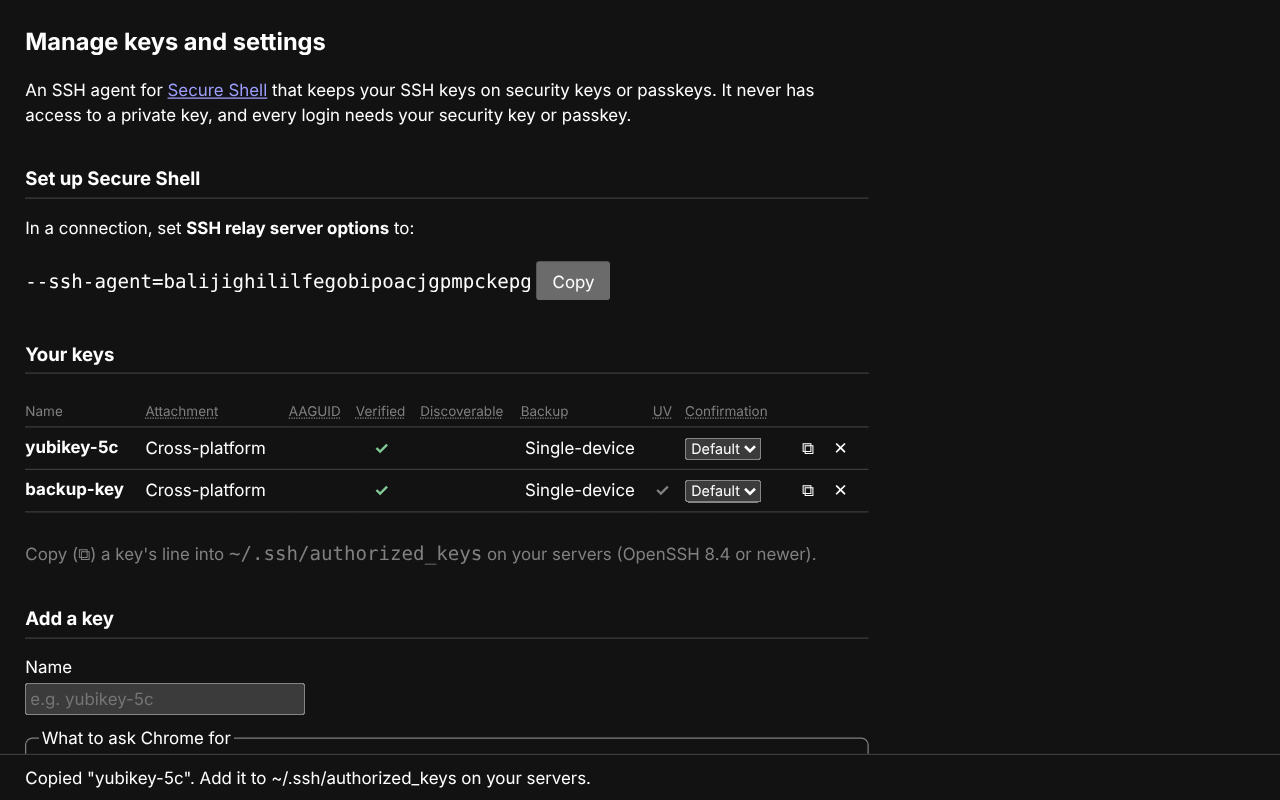
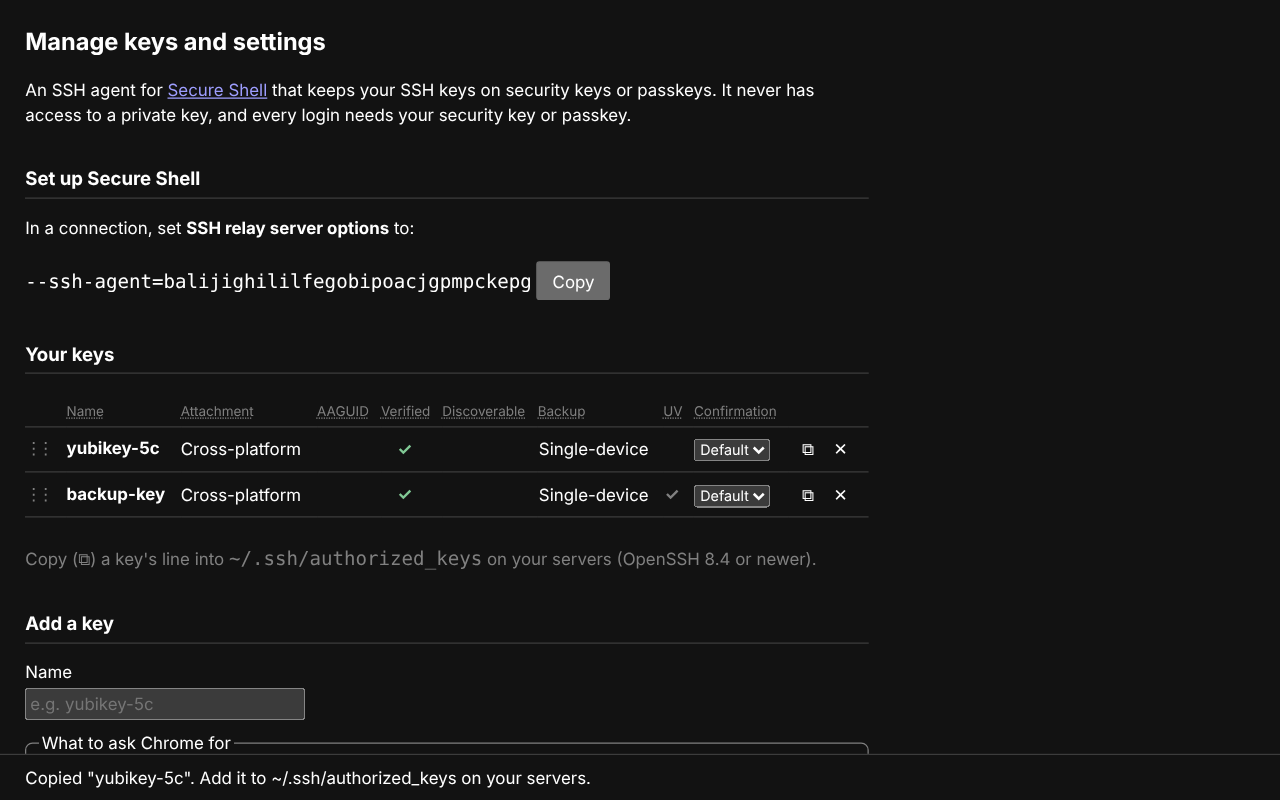
Let keys be reordered
Keys are offered to servers in the list's order, so which one ssh asks
for first can now be chosen: drag a row by its handle, or use Alt+↑/↓
on it.  Each key keeps its place in its own synced record; reordering
renumbers them all, and keys without one (new or older ones) or with
clashing ones (from two computers at once) go by age.

diff --git a/src/manage.js b/src/manage.js
@@ -6,8 +6,8 @@
 
 import {
   Attachment, Kind, createKey, deleteKey, importKey, isMismatched, isVerified,
-  keyAuthorizedKeysLine, keyBlob, loadKeys, renameKey, setKeyConfirmation,
-  verifyKey,
+  keyAuthorizedKeysLine, keyBlob, loadKeys, renameKey, reorderKeys,
+  setKeyConfirmation, verifyKey,
 } from './keys.js';
 import {AAGUID_NAMES} from './aaguids.js';
 import {loadSettings, saveSetting} from './settings.js';
@@ -88,7 +88,9 @@ function renderLevel(key, verified) {
  * The key list's columns: heading, & what it means (shown on hover).
  */
 const COLUMNS = [
-  ['Name', ''],
+  ['', ''],  // Drag handle.
+  ['Name', 'Keys are offered to servers in this order: drag ⋮⋮ (or ' +
+           'Alt+↑/↓ on it) to change it.'],
   ['Attachment', 'authenticatorAttachment, as last reported.\n' +
                  'Platform: built into the computer (OS or browser).\n' +
                  'Cross-platform: roaming, e.g. a security key (USB, NFC, ' +
@@ -208,6 +210,87 @@ function renderName(key, keyFingerprint) {
   };
   td.append(name);
   return td;
+}
+
+/** The keys' IDs, in the list's order. */
+let order = [];
+/** A key whose drag handle to focus once the list redraws. */
+let focusAfterLoad = null;
+
+/**
+ * Move a key in the list.
+ *
+ * @param {string} id
+ * @param {number} index Where to, in the list without it.
+ */
+function moveKey(id, index) {
+  const ids = order.filter((other) => other !== id);
+  ids.splice(Math.max(0, Math.min(index, ids.length)), 0, id);
+  reorderKeys(ids);  // The list reloads.
+}
+
+/**
+ * @param {!Object} key A StoredKey.
+ * @return {!Element} A handle to drag the row by (or move it with Alt+↑/↓).
+ */
+function renderGrip(key) {
+  const td = element('td', 'grip');
+  if (order.length < 2) {
+    return td;
+  }
+  const grip = element('button', 'grip', '⋮⋮',
+      'Drag to reorder (or Alt+↑/↓): keys are offered to servers in this ' +
+      'order');
+  grip.draggable = true;
+  grip.ondragstart = (e) => {
+    e.dataTransfer.setData('application/x-key', key.credentialId);
+    e.dataTransfer.effectAllowed = 'move';
+    e.dataTransfer.setDragImage(grip.closest('tr'), 0, 0);
+  };
+  grip.onkeydown = (e) => {
+    const step = {ArrowUp: -1, ArrowDown: 1}[e.key];
+    if (e.altKey && step) {
+      e.preventDefault();
+      focusAfterLoad = key.credentialId;
+      moveKey(key.credentialId, order.indexOf(key.credentialId) + step);
+    }
+  };
+  td.append(grip);
+  return td;
+}
+
+/**
+ * Let a row take dropped keys, before or after it.
+ *
+ * @param {!Element} tr
+ * @param {string} id Its key's ID.
+ */
+function acceptDrops(tr, id) {
+  const before = (e) => {
+    const box = tr.getBoundingClientRect();
+    return e.clientY < box.top + box.height / 2;
+  };
+  const clear = () => tr.classList.remove('drop-before', 'drop-after');
+  tr.ondragover = (e) => {
+    if (!e.dataTransfer.types.includes('application/x-key')) {
+      return;
+    }
+    e.preventDefault();
+    e.dataTransfer.dropEffect = 'move';
+    clear();
+    tr.classList.add(before(e) ? 'drop-before' : 'drop-after');
+  };
+  tr.ondragleave = clear;
+  tr.ondrop = (e) => {
+    const dragged = e.dataTransfer.getData('application/x-key');
+    clear();
+    if (!dragged || dragged === id) {
+      return;
+    }
+    e.preventDefault();
+    const at = order.filter((other) => other !== dragged).indexOf(id);
+    moveKey(dragged, before(e) ? at : at + 1);
+  };
 }
 
 /** For what the authenticator hasn't reported yet (older keys). */
@@ -370,7 +453,9 @@ function renderKey(key, verified, keyFingerprint) {
   level.append(select);
 
   const tr = element('tr', key.credentialId === highlight ? 'key new' : 'key');
+  acceptDrops(tr, key.credentialId);
   tr.append(
+      renderGrip(key),
       renderName(key, keyFingerprint),
       renderAttachment(key),
       renderAaguid(key),
@@ -437,6 +522,7 @@ async function load() {
   const fingerprints =
       await Promise.all(keys.map((key) => fingerprint(keyBlob(key))));
   showTip(null);  // Its target is about to go.
+  order = keys.map((key) => key.credentialId);
   if (!keys.length) {
     const td = element('td', 'empty', 'No keys yet.  Add one below.');
     td.colSpan = COLUMNS.length;
@@ -448,6 +534,11 @@ async function load() {
   $('keys').replaceChildren(
       renderHead(),
       ...keys.map((key, i) => renderKey(key, verified[i], fingerprints[i])));
+  if (focusAfterLoad) {
+    const row = keys.findIndex((key) => key.credentialId === focusAfterLoad);
+    focusAfterLoad = null;
+    $('keys').querySelectorAll('button.grip')[row]?.focus();
+  }
 }
 
 /**

diff --git a/src/keys.js b/src/keys.js
@@ -126,7 +126,10 @@ export const Attachment = {
  * credProtect), not just the servers.  confirmation is the key's own
  * confirmation level, if not the default.  requested is the kind the user
  * asked for when creating it.  imported is whether it was imported rather
- * than created (created is then when it was imported).
+ * than created (created is then when it was imported).  order is its place
+ * in the list, which is the order keys are offered to servers: keys without
+ * one come last, & ties (e.g. from reordering on two computers at once) go
+ * by age.
  *
  * @typedef {{
  *   credentialId: string,
@@ -140,6 +143,7 @@ export const Attachment = {
  *   confirmation: (!Confirmation|undefined),
  *   requested: (!Kind|undefined),
  *   imported: (boolean|undefined),
+ *   order: (number|undefined),
  *   attachment: (!Attachment|undefined),
  *   transports: (!Array<string>|undefined),
  *   aaguid: (string|undefined),
@@ -270,6 +274,8 @@ export function validateKey(raw, applications) {
       ![undefined, ...Object.values(Confirmation)].includes(raw.confirmation) ||
       ![undefined, ...Object.values(Kind)].includes(raw.requested) ||
       ![undefined, true, false].includes(raw.imported) ||
+      !(raw.order === undefined ||
+        Number.isSafeInteger(raw.order) && raw.order >= 0) ||
       ![undefined, ...Object.values(Attachment)].includes(raw.attachment) ||
       !(raw.transports === undefined ||
         Array.isArray(raw.transports) && raw.transports.length <= 8 &&
@@ -301,6 +307,7 @@ export function validateKey(raw, applications) {
     confirmation: raw.confirmation,
     requested: raw.requested,
     imported: raw.imported,
+    order: raw.order,
     attachment: raw.attachment,
     transports: raw.transports && [...raw.transports],
     aaguid: raw.aaguid,
@@ -372,7 +379,10 @@ export async function renameKey(key, comment) {
   await updateKey(key, {comment});
 }
 
-/** @return {!Promise<!Array<!StoredKey>>} Valid keys, oldest first. */
+/**
+ * @return {!Promise<!Array<!StoredKey>>} Valid keys, in the user's order
+ *     (see StoredKey).
+ */
 export async function loadKeys() {
   const {origin, hostname} = globalThis.location;
   const applications = [origin, hostname];
@@ -404,7 +414,23 @@ export async function loadKeys() {
       console.warn('ignoring a malformed stored key', raw);
     }
   }
-  return [...keys.values()].sort((a, b) => a.created - b.created);
+  const place = (key) => key.order ?? Infinity;
+  return [...keys.values()].sort((a, b) =>
+    place(a) === place(b) ? a.created - b.created : place(a) - place(b));
+}
+
+/**
+ * Put the keys in this order, numbering them all afresh.
+ *
+ * @param {!Array<string>} credentialIds
+ * @return {!Promise<void>}
+ */
+export async function reorderKeys(credentialIds) {
+  const keys =
+      new Map((await loadKeys()).map((key) => [key.credentialId, key]));
+  await chrome.storage.sync.set(Object.fromEntries(
+      credentialIds.filter((id) => keys.has(id)).map((id, order) =>
+        [STORAGE_PREFIX + id, {...keys.get(id), order}])));
 }
 
 /**

diff --git a/test/keys.test.js b/test/keys.test.js
@@ -227,6 +227,28 @@ test('isMismatched: a security key that turns out backup eligible', async () => 
       key({requested: 'passkey', backupEligible: true})), false);
 });
 
+test('key order: as the user set it, then by age', async () => {
+  const {loadKeys, reorderKeys, validateKey} = await import('../src/keys.js');
+  assert.equal(validateKey(storedKey('a', 1, {order: -1}), [ORIGIN]), null);
+  assert.equal(validateKey(storedKey('a', 1, {order: 0.5}), [ORIGIN]), null);
+  const {sync} = fakeStorage();
+  const ids = async () => (await loadKeys()).map((k) => k.credentialId);
+  // Without an order (older keys), by age.
+  sync['key:a'] = storedKey('a', 1);
+  sync['key:b'] = storedKey('b', 2);
+  sync['key:c'] = storedKey('c', 3);
+  assert.deepEqual(await ids(), ['a', 'b', 'c']);
+  await reorderKeys(['c', 'a', 'b', 'gone']);
+  assert.deepEqual(await ids(), ['c', 'a', 'b']);
+  assert.deepEqual([sync['key:c'].order, sync['key:a'].order], [0, 1]);
+  // A new key comes last; clashes (e.g. from two computers) go by age.
+  sync['key:d'] = storedKey('d', 0);
+  sync['key:b'].order = 0;
+  assert.deepEqual(await ids(), ['b', 'c', 'a', 'd']);
+  delete globalThis.chrome;
+  delete globalThis.location;
+});
+
 test('renaming & other updates are validated', async () => {
   const {loadKeys, renameKey, setKeyConfirmation, validateKey} =
       await import('../src/keys.js');

diff --git a/src/style.css b/src/style.css
@@ -139,6 +139,28 @@ body.manage .scroll {
   white-space: nowrap;
 }
 
+.keys td.grip {
+  padding-right: 0.2em;
+}
+
+.keys button.grip {
+  background: none;
+  border: none;
+  color: GrayText;
+  cursor: grab;
+  letter-spacing: -0.3em;
+  padding: 0 0.4em 0 0;
+}
+
+/* Where a dragged key will land. */
+.keys tr.drop-before td {
+  box-shadow: inset 0 2px 0 CanvasText;
+}
+
+.keys tr.drop-after td {
+  box-shadow: inset 0 -2px 0 CanvasText;
+}
+
 .keys th[data-tip] {
   cursor: help;
 }

diff --git a/README.md b/README.md
@@ -33,6 +33,9 @@ the request beside it, and **Silent** only shows the prompt.  A key's own
 level applies once it's verified on this computer.  Other requests are always
 reviewed.
 
+Keys are offered to servers in the key list's order: drag a row's ⋮⋮ handle
+to change it.
+
 Agent forwarding (`ssh -A`) works, with an extra confirmation per login.  On
 the server you forward the agent to, `ssh` must be OpenSSH 10.3+: older
 versions reject the WebAuthn signatures a browser makes when they come from an
